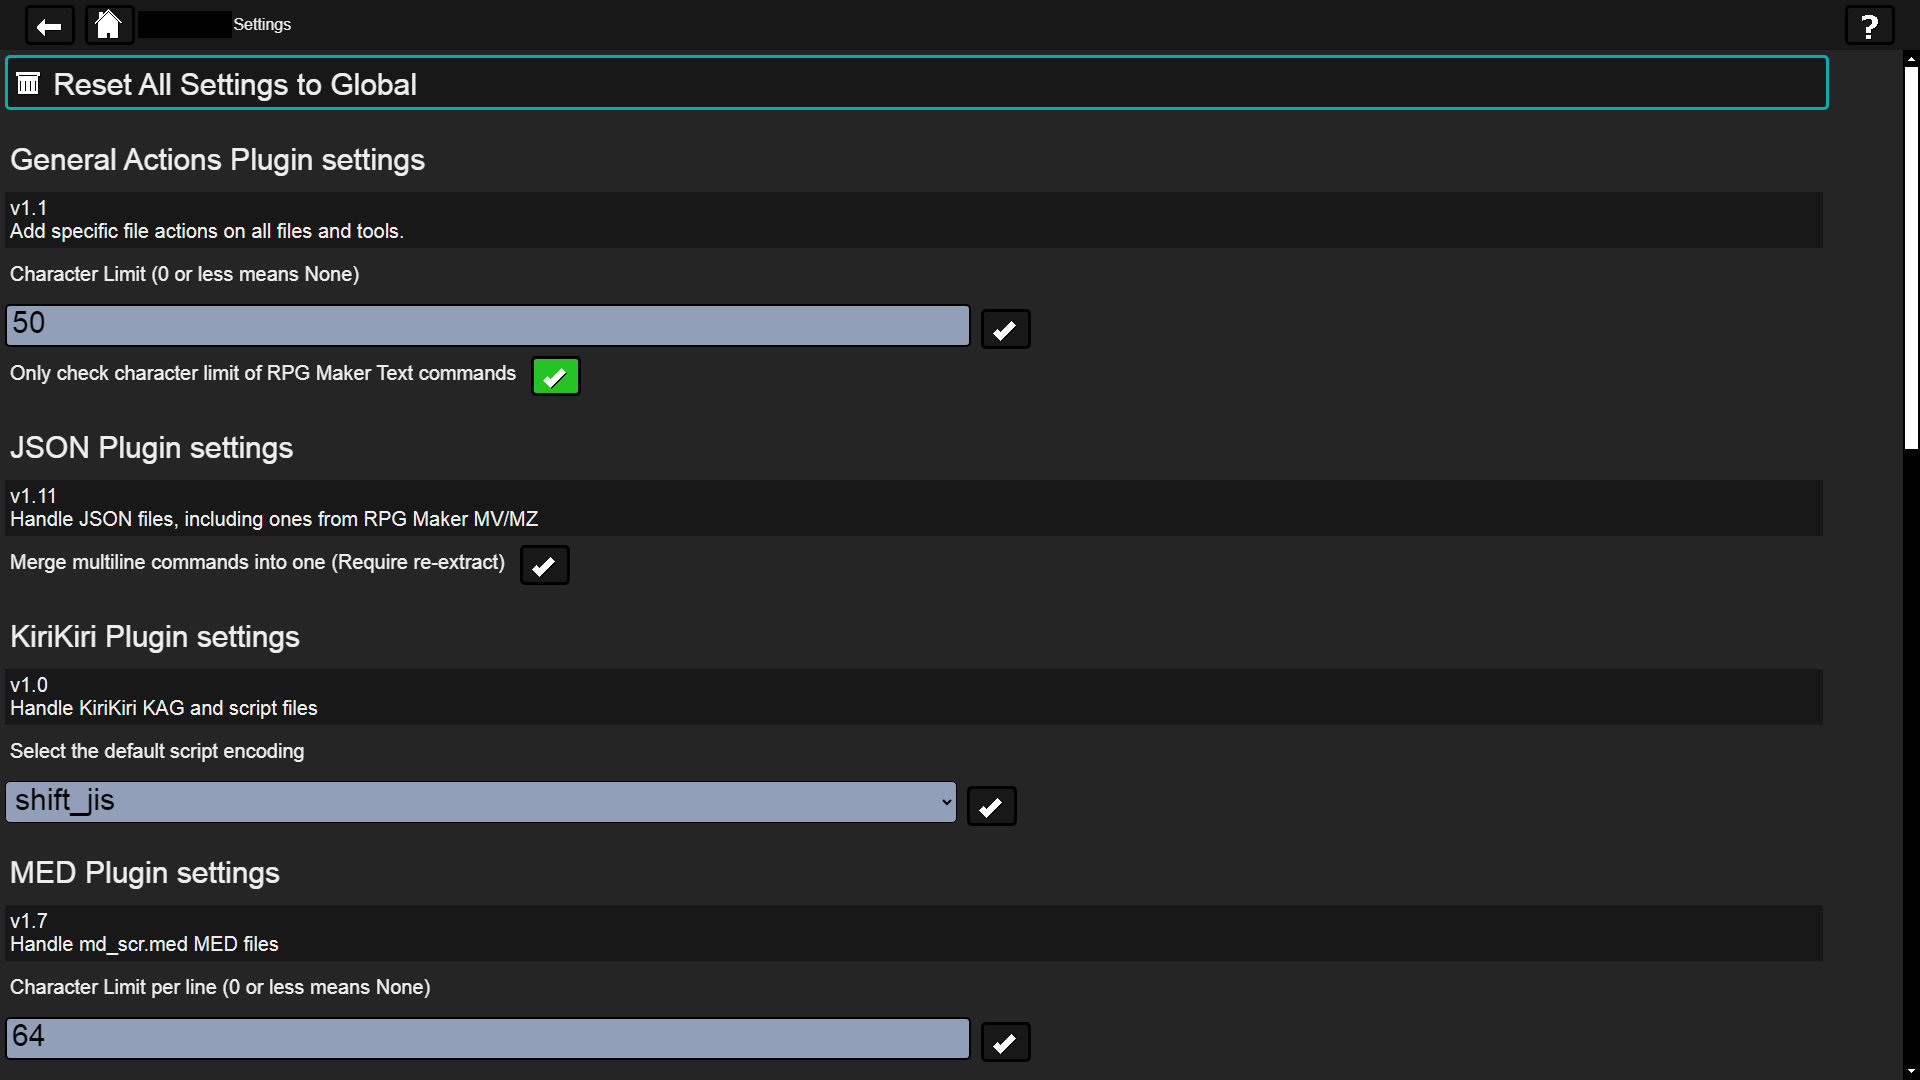
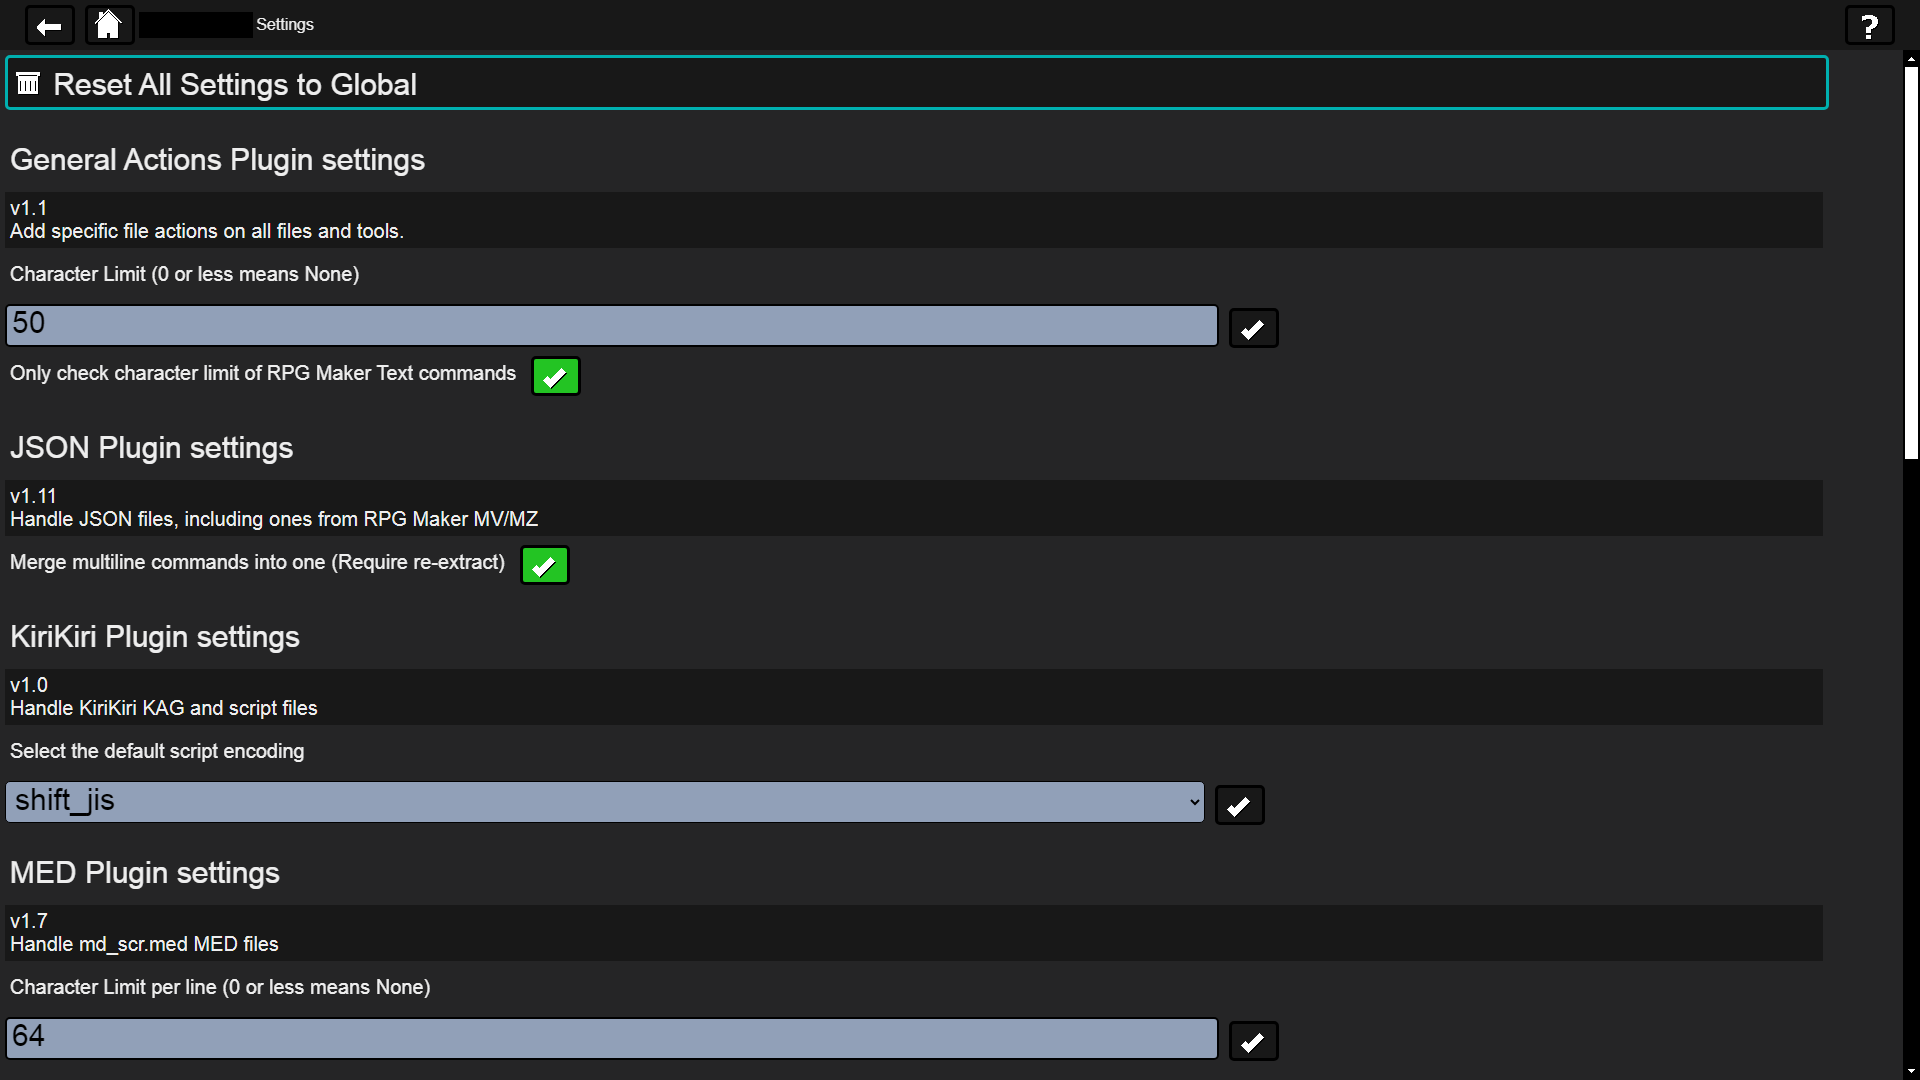
More UI tweaks related to search/replace/setting

diff --git a/assets/ui/script.js b/assets/ui/script.js
@@ -1419,8 +1419,8 @@ function setting_menu(data)
 						// add an input element
 						const input = (
 							fdata[1] == "text" ?
-							add_to(fragment, "div", {cls:["input", "smallinput", "inline"], navigable:true, br:false}) :
-							add_to(fragment, "input", {cls:["input", "smallinput"], navigable:true, br:false})
+							add_to(fragment, "div", {cls:["input", "settinginput", "inline"], navigable:true, br:false}) :
+							add_to(fragment, "input", {cls:["input", "settinginput"], navigable:true, br:false})
 						);
 						switch(fdata[1])
 						{
@@ -1514,7 +1514,7 @@ function setting_menu(data)
 					else // choice selection
 					{
 						// add select and option elements
-						const sel = add_to(fragment, "select", {cls:["input", "smallinput"], navigable:true, br:false});
+						const sel = add_to(fragment, "select", {cls:["input", "settinginput"], navigable:true, br:false});
 						for(let i = 0; i < fdata[2].length; ++i)
 						{
 							let opt = add_to(sel, "option");
@@ -2033,7 +2033,6 @@ function project_menu(data = null)
 		});
 		if(project.config.version)
 		{
-			grid = add_to(fragment, "div", {cls:["grid"]});
 			add_grid_cell(grid, '<img src="assets/images/copy.png"> Replace Strings in batch', function(){
 				replace_page();
 			});
@@ -2071,7 +2070,7 @@ function addSearchBar(node, bp, defaultVal = null)
 {
 	// input element
 	add_to(node, "div", {cls:["title", "left", "smalltext", "inline"], br:false}).innerText = "Search";
-	const input = add_to(node, "div", {cls:["input", "smallinput", "inline"], navigable:true, br:false});
+	const input = add_to(node, "div", {cls:["input", "searchinput", "inline"], navigable:true, br:false});
 	input.contentEditable = "plaintext-only";
 	if(defaultVal != null)
 		input.innerText = defaultVal;
@@ -3368,10 +3367,10 @@ function replace_page()
 		add_to(fragment, "div", {cls:["title", "left"]}).innerText = "Replace strings by others (Case Sensitive)";
 		
 		add_to(fragment, "div", {cls:["title", "left", "smalltext"]}).innerText = "String to replace";
-		const input = add_to(fragment, "div", {cls:["input", "smallinput"], navigable:true});
+		const input = add_to(fragment, "div", {cls:["input", "searchinput"], navigable:true});
 		input.contentEditable = "plaintext-only";
 		add_to(fragment, "div", {cls:["title", "left", "smalltext"]}).innerText = "Replacement";
-		const output = add_to(fragment, "div", {cls:["input", "smallinput"], navigable:true});
+		const output = add_to(fragment, "div", {cls:["input", "searchinput"], navigable:true});
 		output.contentEditable = "plaintext-only";
 		add_to(fragment, "div", {cls:["interact", "text-button"], br:false, navigable:true, onclick:function(){
 			if(input.value == "")

diff --git a/assets/ui/style.css b/assets/ui/style.css
@@ -380,8 +380,17 @@ li {
 	width: 50%;
 }
 
+.settinginput {
+	width: calc(100vw - 200px);
+	max-width:1200px;
+}
+
+.searchinput {
+	width: calc(100vw - 200px);
+}
+
 .sideinput {
-	width: calc(90vw - 40px);
+	width: calc(100vw - 100px);
 }
 
 .text-wrapper {
